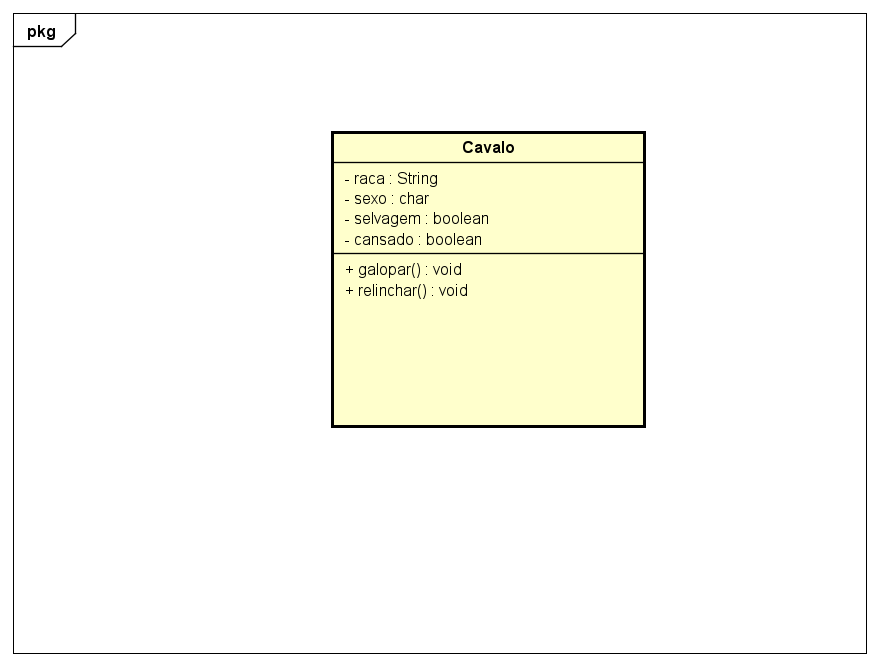
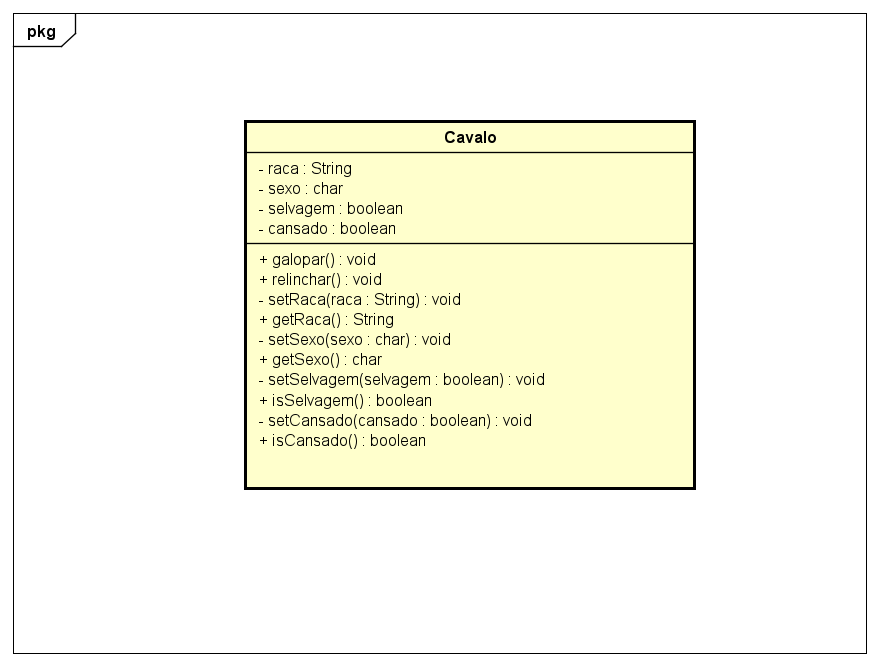
feat + wip: atualizado astah para aula 3, pendente constructor

Changed region(s): [[0.2761, 0.1802, 0.7977, 0.7508], [0.5216, 0.5706, 0.5523, 0.6006]]

diff --git a/src/br/com/fiapride/main/SistemaPrincipal.java b/src/br/com/fiapride/main/SistemaPrincipal.java
@@ -1,48 +1,13 @@
 package br.com.fiapride.main;
 
-import br.com.fiapride.model.Cavalo;
+//import br.com.fiapride.model.Classe;
 
 public class SistemaPrincipal {
 
     public static void main(String[] args) {
-        
-        Cavalo pePano = new Cavalo();
-        Cavalo tempestade = new Cavalo();
 
-        //-----------------------------------------------------------
-
-        pePano.setRaca("Mangalarga Paulista");
-        pePano.setSexo('F');
-        pePano.setSelvagem(false);
-
-        tempestade.setRaca("Árabe");
-        tempestade.setSexo('M');
-
-        //-----------------------------------------------------------
-
-        System.out.println("Cansaço pePano: "+ pePano.isCansado());
-        System.out.println("Cansaço tempestade: "+ tempestade.isCansado());
-
-        System.out.print("\n");
-
-        System.out.print("pePano: ");
-        pePano.galopar();
-        System.out.print("tempestade: ");
-        tempestade.galopar(); //demonstra que a validação do cansaço é exclusiva para cada objeto chamado (pePano.cansado != tempestade.cansado)
-
-        System.out.print("\n");
-
-        System.out.print("pePano descansa: ");
-        pePano.relinchar();
-        System.out.print("tempestade tenta de novo: ");
-        tempestade.galopar();
-
-        System.out.print("\n");
-
-        System.out.print("pePano descansa de novo: ");
-        pePano.relinchar();
-        System.out.print("tempestade enfim descansa: ");
-        tempestade.relinchar();
+        System.out.println("Vazio");
 
     }
+
 }

diff --git a/src/br/com/fiapride/main/SistemaPrincipalCavalo.java b/src/br/com/fiapride/main/SistemaPrincipalCavalo.java
@@ -1,0 +1,48 @@
+package br.com.fiapride.main;
+
+import br.com.fiapride.model.Cavalo;
+
+public class SistemaPrincipalCavalo {
+
+    public static void main(String[] args) {
+
+        Cavalo pePano = new Cavalo();
+        Cavalo tempestade = new Cavalo();
+
+        //-----------------------------------------------------------
+
+        pePano.setRaca("Mangalarga Paulista");
+        pePano.setSexo('F');
+        pePano.setSelvagem(false);
+
+        tempestade.setRaca("Árabe");
+        tempestade.setSexo('M');
+
+        //-----------------------------------------------------------
+
+        System.out.println("Cansaço pePano: "+ pePano.isCansado());
+        System.out.println("Cansaço tempestade: "+ tempestade.isCansado());
+
+        System.out.print("\n");
+
+        System.out.print("pePano: ");
+        pePano.galopar();
+        System.out.print("tempestade: ");
+        tempestade.galopar(); //demonstra que a validação do cansaço é exclusiva para cada objeto chamado (pePano.cansado != tempestade.cansado)
+
+        System.out.print("\n");
+
+        System.out.print("pePano descansa: ");
+        pePano.relinchar();
+        System.out.print("tempestade tenta de novo: ");
+        tempestade.galopar();
+
+        System.out.print("\n");
+
+        System.out.print("pePano descansa de novo: ");
+        pePano.relinchar();
+        System.out.print("tempestade enfim descansa: ");
+        tempestade.relinchar();
+
+    }
+}

diff --git a/src/br/com/fiapride/model/Cavalo.java b/src/br/com/fiapride/model/Cavalo.java
@@ -11,7 +11,7 @@ public class Cavalo {
         return raca; //todo: validar a entrada entre F e M, para conseguir fazer feature de cansado(a) em galopar()
     }
 
-    public void setRaca(String raca) {
+    private void setRaca(String raca) {
         this.raca = raca;
     }
 
@@ -19,7 +19,7 @@ public class Cavalo {
         return sexo;
     }
 
-    public void setSexo(char sexo) {
+    private void setSexo(char sexo) {
         this.sexo = sexo;
     }
 
@@ -27,7 +27,7 @@ public class Cavalo {
         return selvagem;
     }
 
-    public void setSelvagem(boolean selvagem) {
+    private void setSelvagem(boolean selvagem) {
         this.selvagem = selvagem;
     }
 
@@ -35,7 +35,7 @@ public class Cavalo {
         return cansado;
     }
 
-    public void setCansado(boolean cansado) {
+    private void setCansado(boolean cansado) {
         this.cansado = cansado; //todo: mudar de false/true para int com ranges de classificação(descansado-ofegante-exausto)?
     }
 
